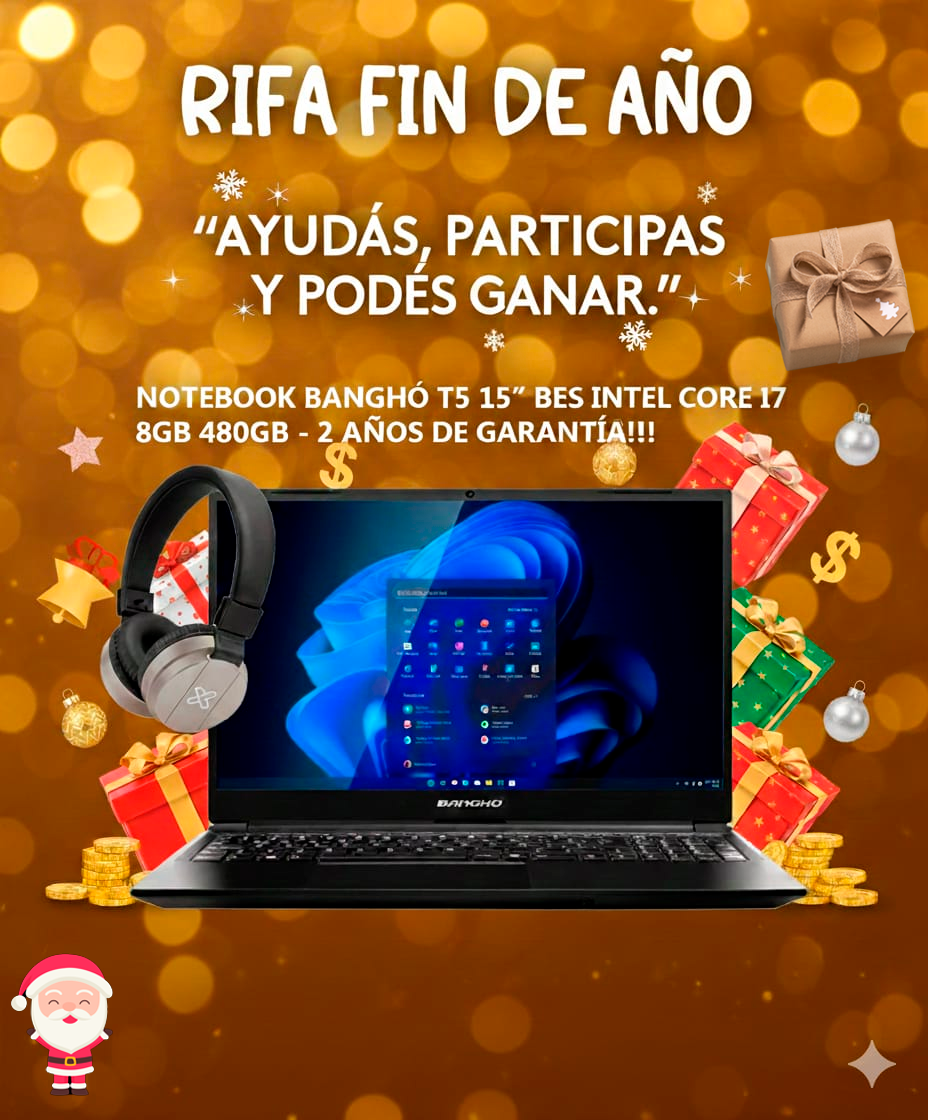
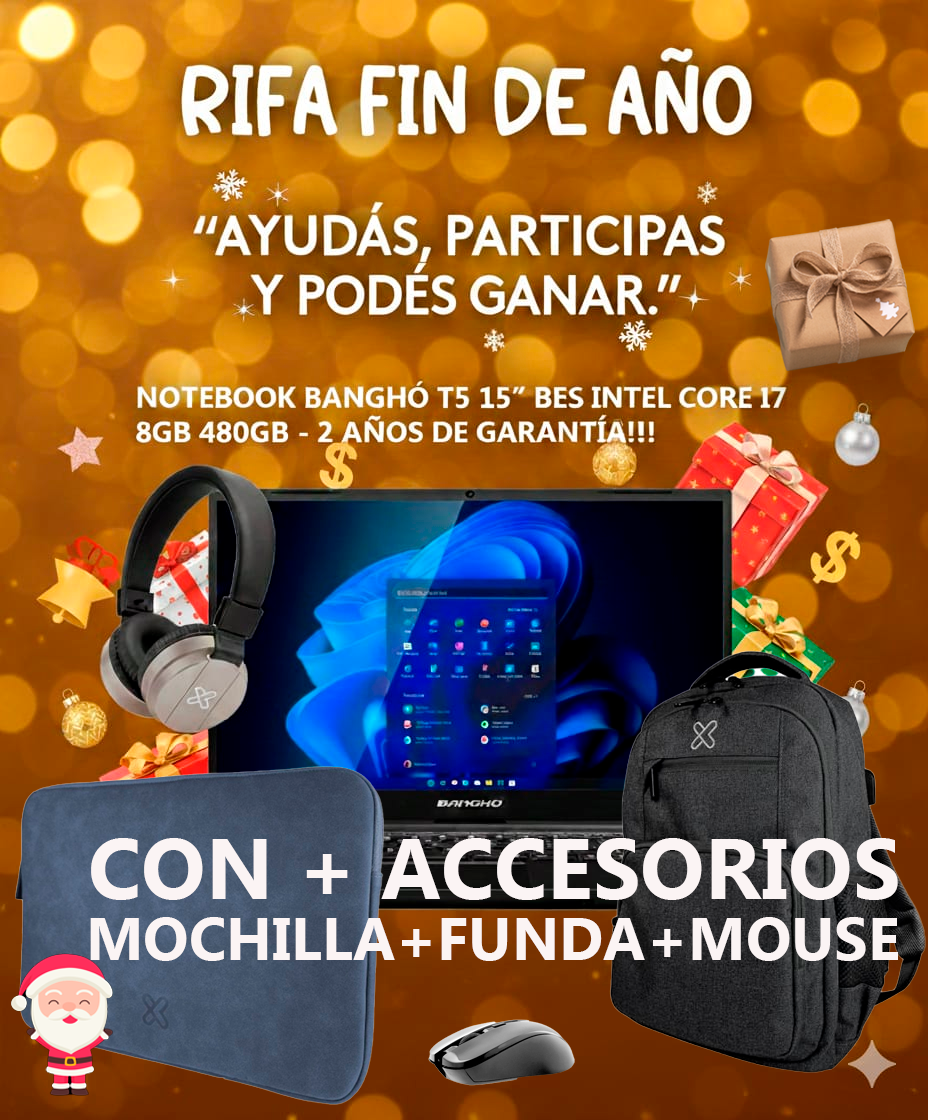
Add files via upload

Changed region(s): [[0.0, 0.5625, 1.0, 1.0], [0.4688, 0.9062, 0.625, 0.9688]]

diff --git a/index.html b/index.html
@@ -17,7 +17,7 @@
             
             <div class="prize-display">
                 <img src="NB.png" alt="Notebook Banghó i7" class="notebook-img">
-                <div class="gift-tag">+ Auriculares BT de Regalo!</div>
+                <div class="gift-tag">+ Kit Completo de Regalo!</div>
             </div>
 
             <p class="specs">i7 | 8GB RAM | 480GB SSD | 15"</p>
